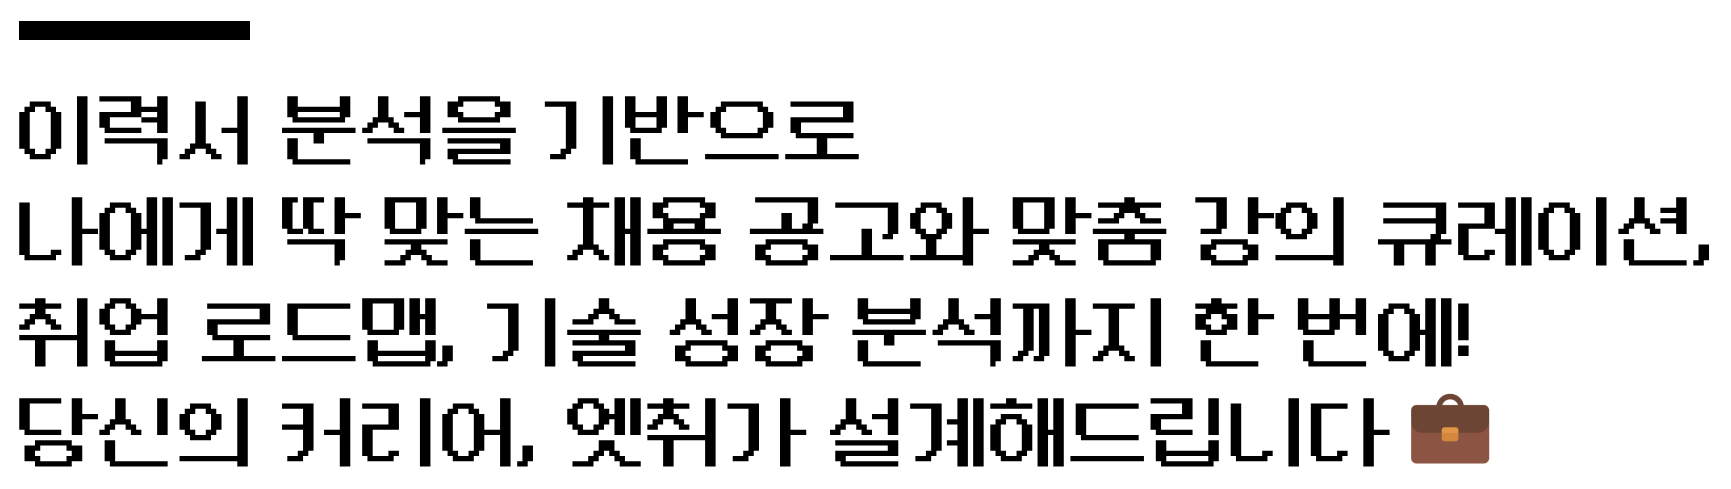
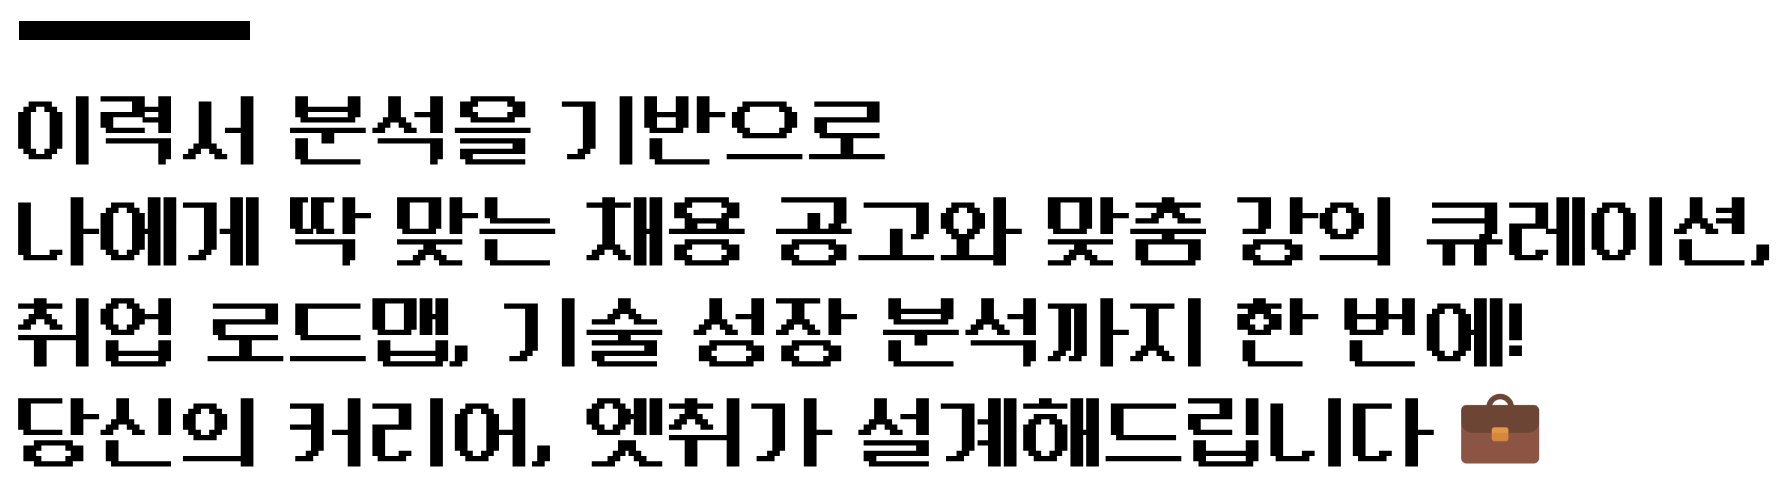
수정: - 이미지 수정 - 예시 메시지 추가
참고: 아직 추가되지 않은 메시지에서 오류가 발생하고 있습니다

diff --git a/src/tmp/ui-test-style.css b/src/tmp/ui-test-style.css
@@ -1,10 +1,5 @@
-:root {
-    --weight-bold: 500;
-    --button-large-text-weight: 500;
-}
-
 * {
-    font-family: 'Neo둥근모 Pro', Impact, Haettenschweiler, 'Arial Narrow Bold', sans-serif;
+    font-family: 'Neo둥근모 Pro', sans-serif;
 }
 
 .contain>*:nth-child(1),
@@ -36,8 +31,15 @@ footer {
 #chatbot-tab .prose {
     text-align: center;
     color: var(--body-text-color-subdued);
-    font-weight: var(--weight-bold);
     font-size: 0.8rem;
+}
+
+#chatbot-tab textarea {
+    border-radius: var(--radius-lg);
+}
+
+#chatbot-tab button {
+    margin-left: var(--spacing-xl);
 }
 
 #sidebar-logo, #topbar-logo {

diff --git a/src/tmp/ui-test.py b/src/tmp/ui-test.py
@@ -1,6 +1,44 @@
 import gradio as gr
 
-with gr.Blocks(css_paths=['src/tmp/ui-test-style.css']) as demo:
+FEATURES = {
+    'general': '무엇이든 물어보세요!',
+    'job': '직무 찾기',
+    'recruit': '채용 공고 찾기',
+    'resume': '이력서 검토하기',
+    'roadmap': '취업 준비 로드맵 작성하기',
+    'course': '강의 찾기'
+}
+
+EXAMPLE_MESSAGES = {
+    'general': [
+        {'role': 'user', 'text': '🐤 신입에게 적합한 직무나 역할이 뭘까?'},
+        {'role': 'user', 'text': '📛 경력이 없어도 도전할 수 있는 직업에는 어떤 것이 있을까?'},
+        {'role': 'user', 'text': '🛠 취업 시장에서 인기가 있는 IT 스킬은 뭘까?'},
+        {'role': 'user', 'text': '📝 이력서에 어떤 IT 관련 경험을 추가하면 취업에 유리할까?'},
+    ],
+    'job': [
+        {'role': 'user', 'text': '🐤 신입도 취업할 수 있는 일자리가 있을까?'},
+        {'role': 'user', 'text': '🎨 디자인 관련 지식을 살릴 수 있는 직업에는 뭐가 있을까?'},
+        {'role': 'user', 'text': '💻 프론트엔드에 관한 직업에는 뭐가 있을까?'},
+        {'role': 'user', 'text': '🗄 백엔드에 관한 경험이 중요한 직업을 추천해줘'},
+        {'role': 'user', 'text': '🤖 인공지능에 관한 지식을 살릴 수 있는 일자리를 찾아줘'},
+    ]
+}
+
+
+theme = gr.themes.Soft(
+    primary_hue="slate",
+    secondary_hue="stone",
+    neutral_hue="zinc",
+    font='Neo둥근모 Pro',
+    font_mono='Neo둥근모 Code'
+).set(
+    button_large_text_weight=500,
+    block_title_text_weight=500,
+)
+
+
+with gr.Blocks(css_paths=['src/tmp/ui-test-style.css'], theme=theme) as demo:
     """ 앱 """
 
     with gr.Sidebar(position='left') as sidebar:
@@ -17,17 +55,18 @@ with gr.Blocks(css_paths=['src/tmp/ui-test-style.css']) as demo:
             show_fullscreen_button=False,
         )
 
-        general_chat_button = gr.Button('무엇이든 물어보세요!')
-
         profile_button = gr.Button('이력서 입력하러 가기', variant='primary')
+
+        general_chat_button = gr.Button(FEATURES['general'])
 
         with gr.Group(elem_id='custom-group'):
             gr.HTML('📊 맞춤 직무 설계')
-            job_chat_button = gr.Button('직무 찾기')
-            recruit_chat_button = gr.Button('채용 공고 찾기')
-            resume_chat_button = gr.Button('이력서 검토하기')
-            roadmap_chat_button = gr.Button('취업 준비 로드맵 작성하기')
-        
+            job_chat_button = gr.Button(FEATURES['job'])
+            recruit_chat_button = gr.Button(FEATURES['recruit'])
+            resume_chat_button = gr.Button(FEATURES['resume'])
+            roadmap_chat_button = gr.Button(FEATURES['roadmap'])
+            course_chat_button = gr.Button(FEATURES['course'])
+
         sidebar_logo_image = gr.Image(
             './resources/about.png',
             show_label=False,
@@ -47,7 +86,6 @@ with gr.Blocks(css_paths=['src/tmp/ui-test-style.css']) as demo:
             show_fullscreen_button=False,
         )
 
-    
     """ 상단 바 """
     with gr.Row(elem_id='topbar-section', visible=False) as topbar:
         topbar_logo_image = gr.Image(
@@ -60,7 +98,6 @@ with gr.Blocks(css_paths=['src/tmp/ui-test-style.css']) as demo:
             show_fullscreen_button=False,
         )
 
-
     with gr.Tabs() as tab_host:
         """ 탭 호스트 """
 
@@ -71,16 +108,16 @@ with gr.Blocks(css_paths=['src/tmp/ui-test-style.css']) as demo:
                 main_chatbot = gr.Chatbot(
                     [],
                     elem_id="chatbot",
+                    label=FEATURES['general'],
                     type='messages',
-                    examples=[
-                        {'role': 'assistant', 'text': '예시 1'},
-                        {'role': 'assistant', 'text': '예시 2'},
-                        {'role': 'assistant', 'text': '예시 3'},
-                        {'role': 'assistant', 'text': '예시 4'},
-                    ],
+                    examples=EXAMPLE_MESSAGES['general'],
+                )
+                gr.CheckboxGroup(
+                    ['📜 이력서 포함시키기', '이런 식으로 체크박스', '여러 개 넣을 수 있어요'],
                     show_label=False
                 )
                 gr.TextArea(
+                    placeholder='❔ 엣취에게 물어보세요',
                     lines=1,
                     max_lines=5,
                     submit_btn=True,
@@ -96,9 +133,14 @@ with gr.Blocks(css_paths=['src/tmp/ui-test-style.css']) as demo:
             with gr.Row():
                 with gr.Column(scale=4):
                     username_text = gr.Text(
-                        label='사용자 이름', placeholder='사용자 ID가 표시됩니다', interactive=False)
+                        label='사용자 이름', 
+                        placeholder='사용자 ID가 표시됩니다', 
+                        interactive=False
+                    )
                     preferred_job = gr.Text(
-                        label='희망 직무', placeholder='희망하는 직무를 입력해보세요')
+                        label='희망 직무', 
+                        placeholder='희망하는 직무를 입력해보세요'
+                    )
 
                 with gr.Column():
                     profile_image = gr.Image(interactive=False, scale=1)
@@ -113,7 +155,10 @@ with gr.Blocks(css_paths=['src/tmp/ui-test-style.css']) as demo:
                 )
                 with gr.Row():
                     education_level_dropdown = gr.Dropdown(
-                        ['중학교 졸업', '고등학교 졸업', '대학교 학사 학위'],
+                        [
+                            '초등학교 졸업', '중학교 졸업', '고등학교 졸업',
+                            '검정고시 합격', '학사 학위', '석사 학위', '박사 학위'
+                        ],
                         label='최종 학력',
                         multiselect=False,
                         interactive=True
@@ -141,7 +186,6 @@ with gr.Blocks(css_paths=['src/tmp/ui-test-style.css']) as demo:
                 clear_history_button = gr.Button(
                     '모든 사용 기록 지우기', variant='stop')
 
-
     """ 이벤트 """
 
     def set_topbar_visibility(is_visible):
@@ -150,23 +194,35 @@ with gr.Blocks(css_paths=['src/tmp/ui-test-style.css']) as demo:
     sidebar.expand(lambda: set_topbar_visibility(False), outputs=[topbar])
     sidebar.collapse(lambda: set_topbar_visibility(True), outputs=[topbar])
 
-
     def select_profile_tab():
         return gr.update(selected=1)
 
     profile_button.click(lambda: select_profile_tab(), outputs=[tab_host])
 
+    def select_chat_tab(mode):
+        if mode == 'general':
+            pass
+        elif mode == 'job':
+            pass
+        elif mode == 'recruit':
+            pass
+        elif mode == 'resume':
+            pass
+        elif mode == 'roadmap':
+            pass
+        elif mode == 'course':
+            pass
+        else:
+            return gr.update(), gr.update()
 
-    def select_chat_tab(mode=None):
-        # IMPL: 사용자가 선택한 모드에 따라 적절한 기능 구현
+        return gr.update(selected=0), gr.update(label=FEATURES[mode], examples=EXAMPLE_MESSAGES[mode])
 
-        return gr.update(selected=0)
-
-    general_chat_button.click(lambda: select_chat_tab(), outputs=[tab_host])
-    job_chat_button.click(lambda: select_chat_tab(), outputs=[tab_host])
-    recruit_chat_button.click(lambda: select_chat_tab(), outputs=[tab_host])
-    resume_chat_button.click(lambda: select_chat_tab(), outputs=[tab_host])
-    roadmap_chat_button.click(lambda: select_chat_tab(), outputs=[tab_host])
+    general_chat_button.click(lambda: select_chat_tab('general'), outputs=[tab_host, main_chatbot])
+    job_chat_button.click(lambda: select_chat_tab('job'), outputs=[tab_host, main_chatbot])
+    recruit_chat_button.click(lambda: select_chat_tab('recruit'), outputs=[tab_host, main_chatbot])
+    resume_chat_button.click(lambda: select_chat_tab('resume'), outputs=[tab_host, main_chatbot])
+    roadmap_chat_button.click(lambda: select_chat_tab('roadmap'), outputs=[tab_host, main_chatbot])
+    course_chat_button.click(lambda: select_chat_tab('course'), outputs=[tab_host, main_chatbot])
 
 
 demo.launch(debug=True)
